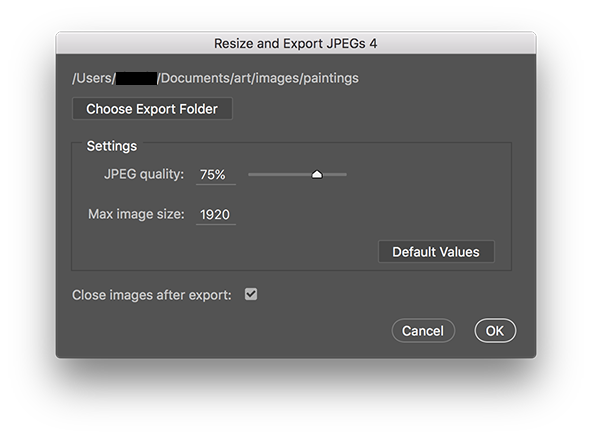
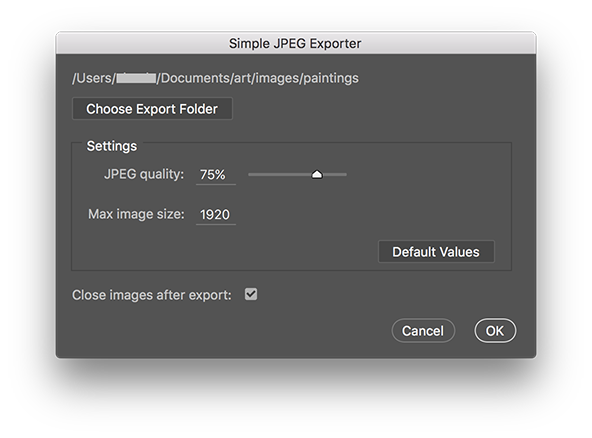
minor ui adj

Changed region(s): [[0.3649, 0.089, 0.6385, 0.1187], [0.1824, 0.1484, 0.2736, 0.2078]]

diff --git a/SimpleJPEGExporter.jsx b/SimpleJPEGExporter.jsx
@@ -345,7 +345,7 @@ SimpleJPEGExporter.prototype.initEventHandlers = function() {
  */
 SimpleJPEGExporter.prototype.buildDialog = function() {
   var dlgResource =
-    'dialog { text:"Resize and Export JPEGs 4",' +
+    'dialog { text:"Simple JPEG Exporter",' +
       'folderGrp: Group {' +
         'alignment: "left",' +
         'orientation: "column",' +
